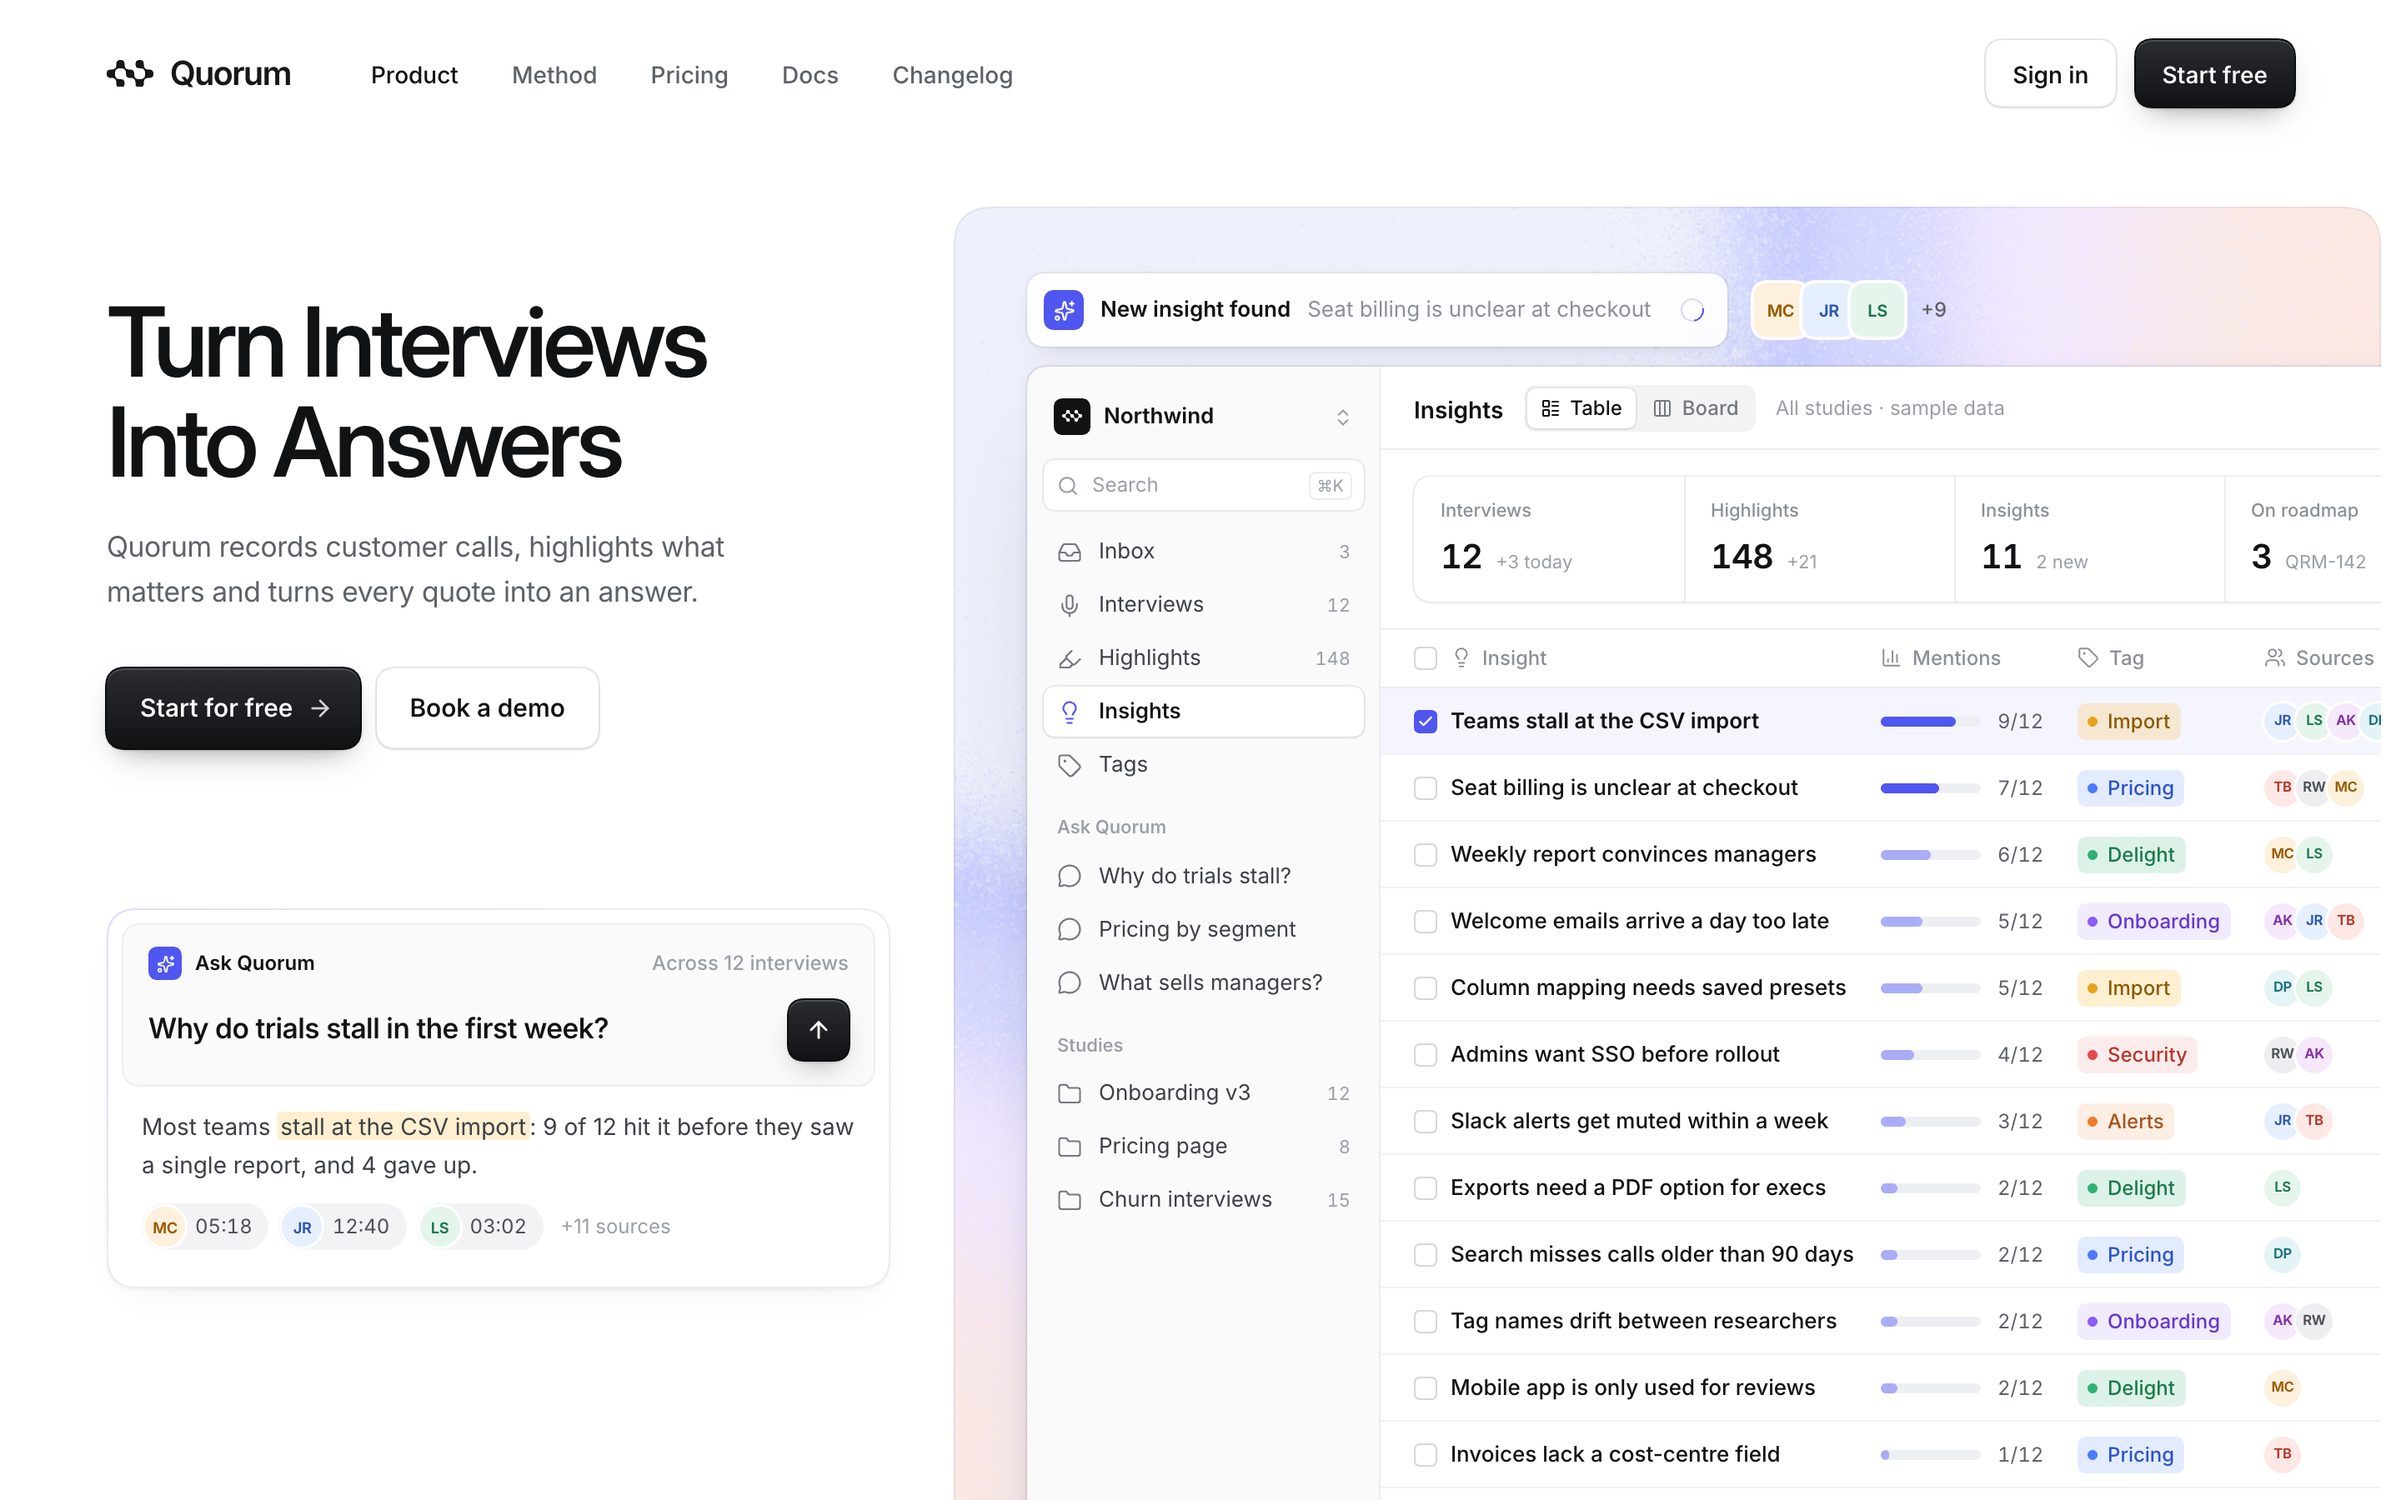
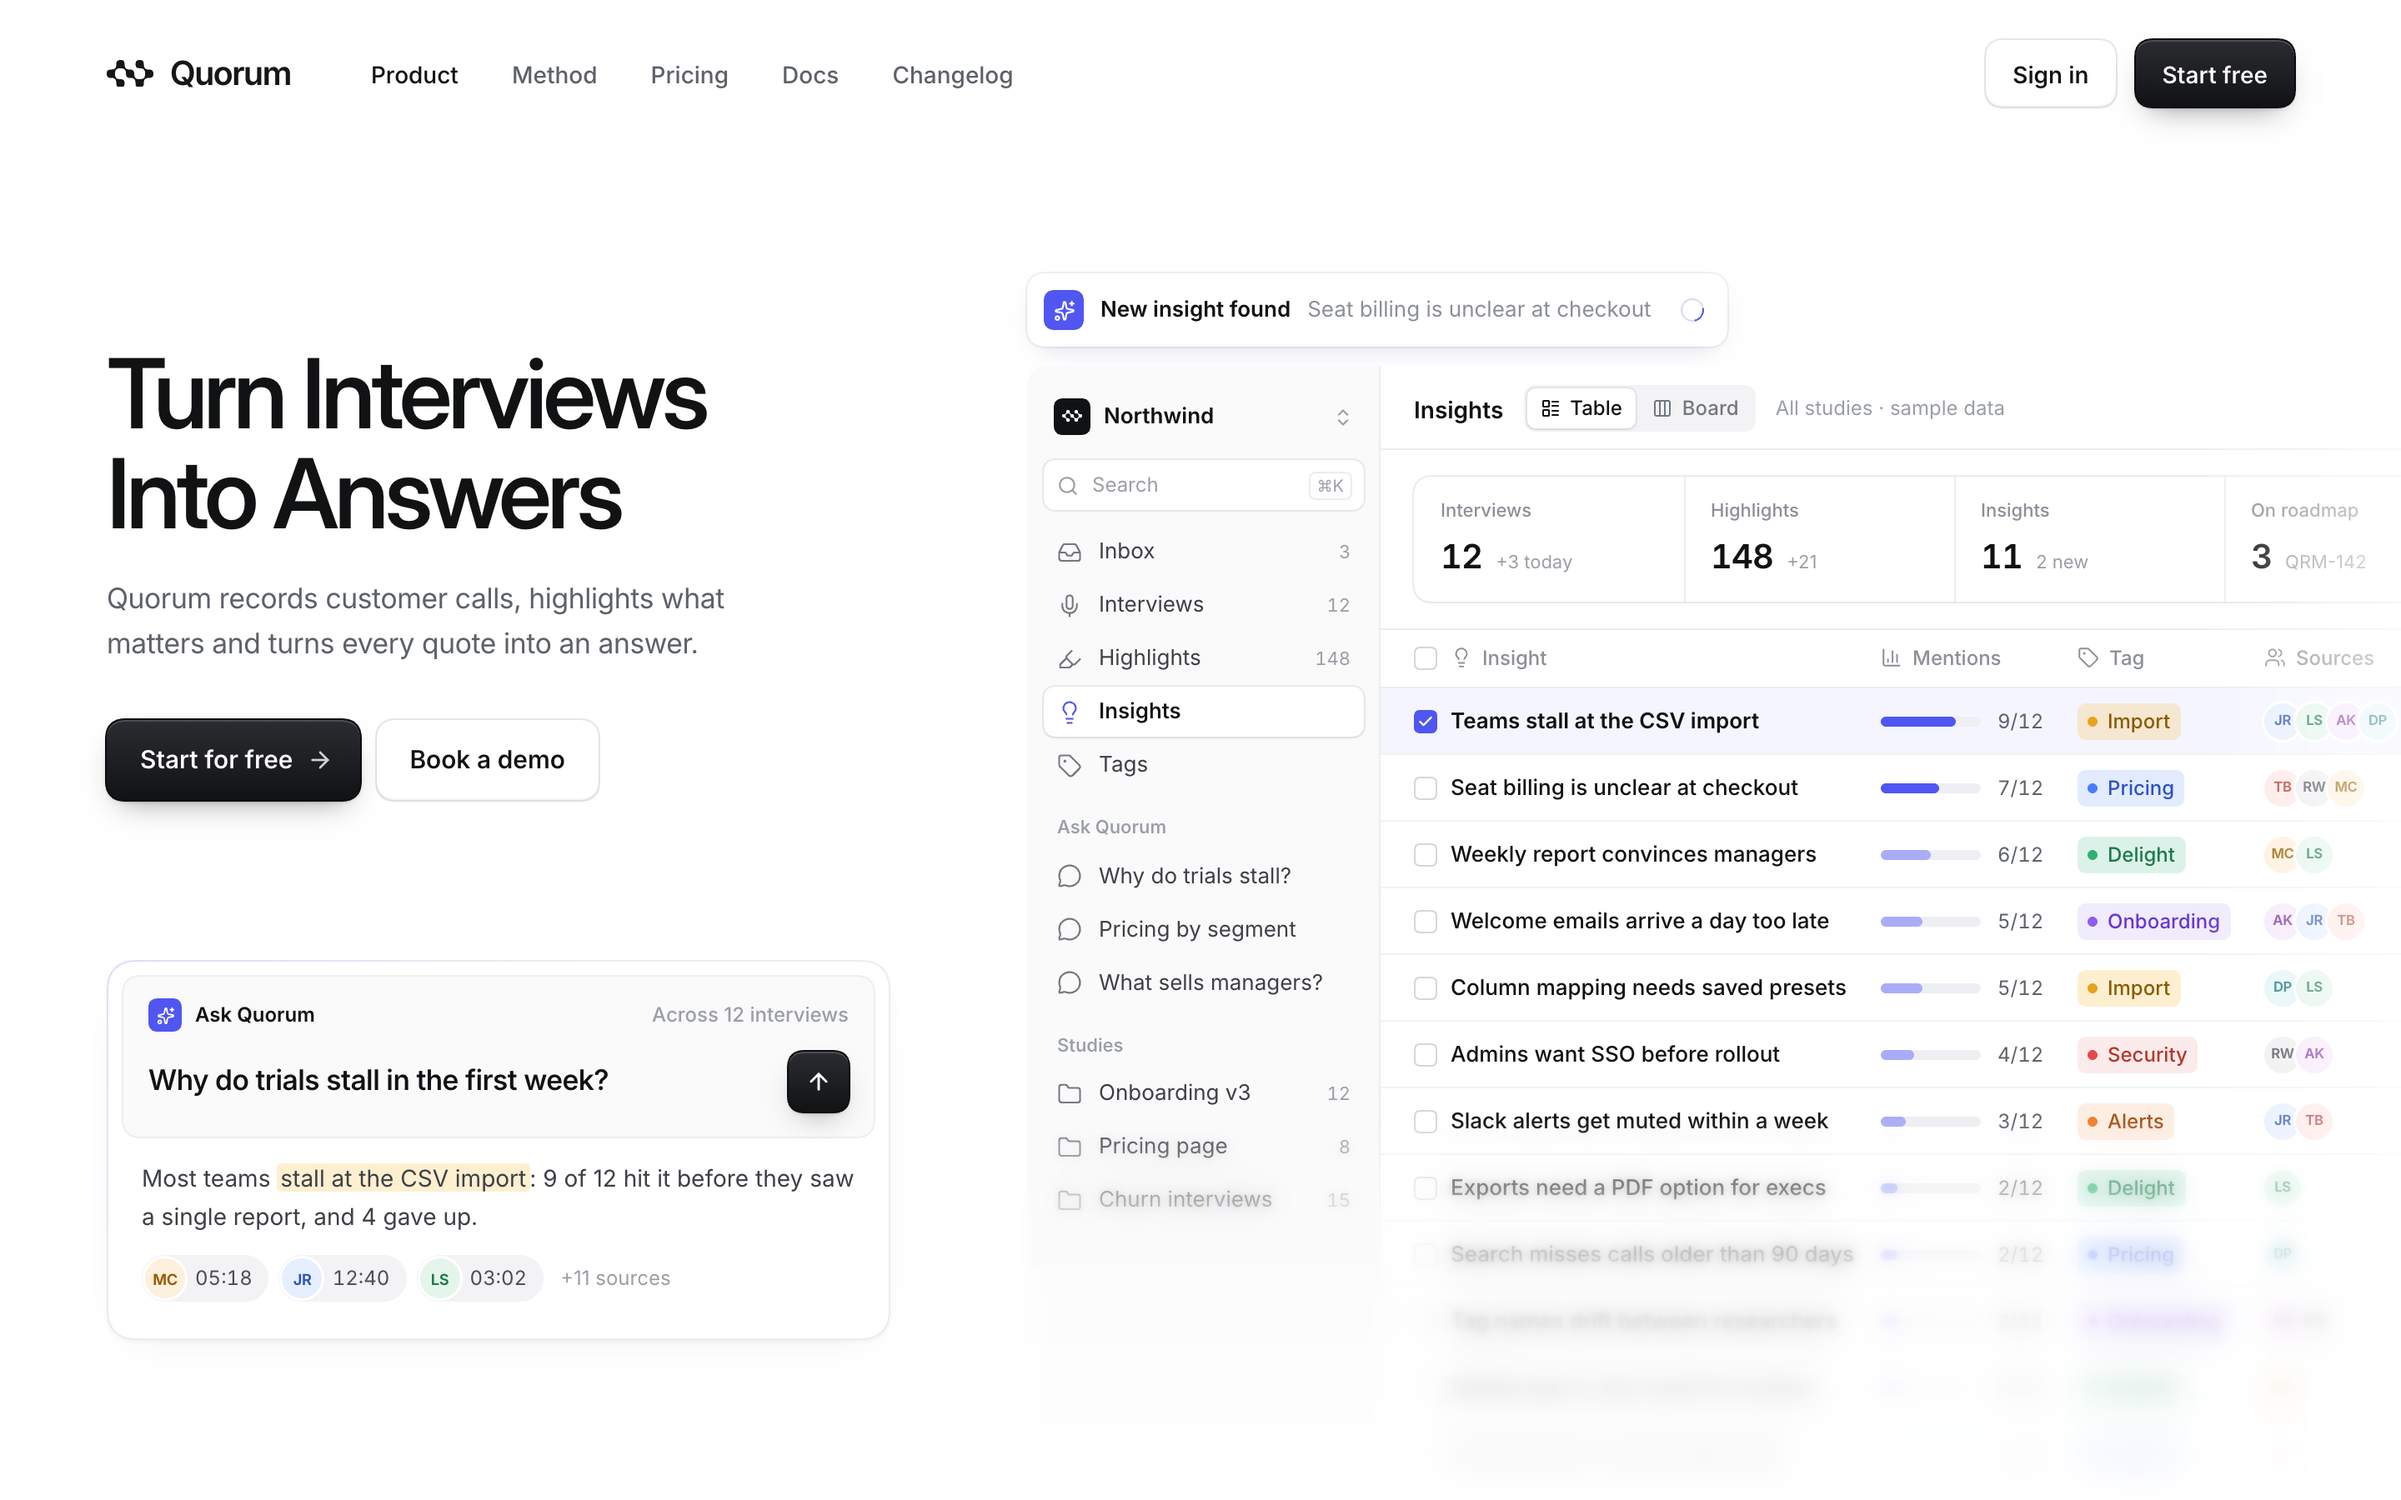
Quorum v6.5: equal copy-side gaps, single agent bar, grain removed, product dissolves into the page with a progressive blur

diff --git a/work/quorum/app/src/HeroV6.tsx b/work/quorum/app/src/HeroV6.tsx
@@ -4,7 +4,6 @@
 // a peek card with the source quote and clip straddling the stage edge, quiet substance under the CTAs, tactile buttons.
 import { type ReactNode, useEffect, useState } from 'react'
 import { AnimatePresence, motion, MotionConfig } from 'motion/react'
-import { GrainGradient } from '@paper-design/shaders-react'
 import { ArrowRight, ArrowUp, BarChart3, Check, ChevronsUpDown, Highlighter, Inbox, Lightbulb, Mic, MessageCircle, Search, Sparkles, Tag, Users, Folder, LayoutList, Columns3 } from 'lucide-react'
 import { ease } from './motion'
 import { TAG, type TagKey } from './Product'
@@ -13,6 +12,8 @@ import QuorumLogo, { QuorumMark } from './QuorumLogo'
 const T = { nav: 0.1, h1: 0.25, sub: 0.55, cta: 0.66, feats: 0.8, stage: 0.2, app: 0.55, rows: 0.95, bar: 1.4, peek: 1.7 }
 const INK = '#111214', SUB = '#5d6168', IND = '#5056f0'
 const STAGE = { x: 572, y: 124, w: 856, h: 820 }
+// the product dissolves into the page: fades over its last ~200px at the bottom and ~140px at the right
+const FADE = 'linear-gradient(180deg, #000 62%, transparent 92%), linear-gradient(90deg, #000 78%, transparent 99%)'
 
 const Up = ({ at, y = 14, className = '', children }: { at: number; y?: number; className?: string; children: ReactNode }) => (
   <motion.div className={className} initial={{ opacity: 0.01, y, filter: 'blur(6px)' }} animate={{ opacity: 1, y: 0, filter: 'blur(0px)' }}
@@ -132,13 +133,6 @@ function AgentStack() {
           </motion.div>
         </AnimatePresence>
       </div>
-      {/* who is feeding this study: rounded-square profile pictures, quiet */}
-      <motion.div className="absolute left-[436px] top-0 flex h-11 items-center gap-2.5" initial={{ opacity: 0, x: -6 }} animate={{ opacity: 1, x: 0 }} transition={{ delay: T.bar + 0.2, duration: 0.6, ease: ease.outQuint }}>
-        <span className="flex -space-x-[3px]">
-          {['MC', 'JR', 'LS'].map((a) => <span key={a} className="grid size-8 place-items-center rounded-[9px] text-[10px] font-[650] tracking-[-0.02em] shadow-[0_0_0_2px_rgba(255,255,255,0.9)]" style={{ background: HUES[a][0], color: HUES[a][1] }}>{a}</span>)}
-        </span>
-        <span className="text-[12px] font-[500] text-[#5d6168]">+9</span>
-      </motion.div>
     </motion.div>
   )
 }
@@ -217,7 +211,7 @@ export default function HeroV6() {
     <MotionConfig reducedMotion="user">
       <div className="relative mx-auto h-[900px] w-[1440px] overflow-hidden bg-white" style={{ color: INK, fontFamily: '"Inter Variable", system-ui, sans-serif', fontOpticalSizing: 'auto', fontFeatureSettings: '"cv11", "ss01"' }}>
         <Nav />
-        <section className="absolute left-[64px] top-[176px] z-20 w-[470px]">
+        <section className="absolute left-[64px] top-[207px] z-20 w-[470px]">
           <h1 className="text-[58px] font-[550] leading-[1.03] tracking-[-0.045em]">
             {['Turn Interviews', 'Into Answers'].map((l, i) => (
               <motion.span key={l} className="block" initial={{ opacity: 0.01, y: 30, filter: 'blur(6px)' }} animate={{ opacity: 1, y: 0, filter: 'blur(0px)' }}
@@ -232,16 +226,18 @@ export default function HeroV6() {
           <Up at={T.feats} className="mt-24"><AskBox /></Up>
         </section>
 
-        <motion.div className="absolute z-10 overflow-hidden rounded-[24px]" style={{ left: STAGE.x, top: STAGE.y, width: STAGE.w, height: STAGE.h }}
+        <motion.div className="absolute z-10" style={{ left: STAGE.x, top: STAGE.y, width: STAGE.w + 12, height: STAGE.h }}
           initial={{ opacity: 0 }} animate={{ opacity: 1 }} transition={{ delay: T.stage, duration: 1.0 }}>
-          <GrainGradient style={{ position: 'absolute', inset: 0, width: STAGE.w, height: STAGE.h }} colorBack="#eef0fb" colors={['#aeb4ff', '#d4d7ff', '#f3e9ff', '#ffe9dc']} shape="corners" softness={0.85} intensity={0.22} noise={0.28} speed={0.25} />
-          <div aria-hidden className="absolute inset-0 rounded-[24px] shadow-[inset_0_0_0_1px_rgba(17,18,20,0.06)]" />
           <AgentStack />
-          <motion.div className="absolute left-[44px] top-[96px] h-[760px] w-[900px] overflow-hidden rounded-[14px] bg-white" style={{ boxShadow: '0 0 0 1px rgba(17,18,20,0.08), 0 2px 6px rgba(30,34,90,0.06), 0 30px 60px -24px rgba(30,34,90,0.28)' }}
+          <motion.div className="absolute left-[44px] top-[96px] h-[760px] w-[900px] overflow-hidden rounded-[14px] bg-white" style={{ boxShadow: '0 0 0 1px rgba(17,18,20,0.08), 0 2px 6px rgba(17,18,20,0.04), 0 30px 60px -24px rgba(17,18,20,0.18)', WebkitMaskImage: FADE, maskImage: FADE, WebkitMaskComposite: 'source-in', maskComposite: 'intersect' }}
             initial={{ opacity: 0, y: 40 }} animate={{ opacity: 1, y: 0 }} transition={{ delay: T.app, duration: 1.3, ease: ease.reveal, opacity: { delay: T.app, duration: 0.6 } }}>
             <App />
           </motion.div>
         </motion.div>
+        {/* progressive blur over the dissolving bottom of the product only (three stacked backdrop blurs, deeper bands blur more) */}
+        {([[2, '60%'], [5, '78%'], [10, '95%']] as const).map(([b, to]) => (
+          <div key={b} aria-hidden className="pointer-events-none absolute bottom-0 right-0 z-20 h-[230px]" style={{ left: STAGE.x, backdropFilter: `blur(${b}px)`, WebkitBackdropFilter: `blur(${b}px)`, WebkitMaskImage: `linear-gradient(180deg, transparent, #000 ${to})`, maskImage: `linear-gradient(180deg, transparent, #000 ${to})` }} />
+        ))}
       </div>
     </MotionConfig>
   )

diff --git a/knowledge/founder/founder-taste.md b/knowledge/founder/founder-taste.md
@@ -294,6 +294,9 @@ Every rule here is a direct founder verdict on real output. It outranks books, w
 - **RULE** [founder] A minimal live element above a product beats a stack. Use one status bar, plus a row of 44px square tiles to its right: the inputs feeding it, such as tinted-initial participant tiles, one with a green live dot, and a +N tile. Never ghost cards stacked behind. The composer under the hero CTAs should be big enough to carry a moment: about 64px below the CTAs and 470px wide, with a 17/550 question, and once typed it streams a one-sentence answer with the key finding highlighted in its tag colour and three citation chips (avatar plus timestamp). The founder loved the grain stage (Paper GrainGradient, corners shape, indigo/lavender/peach).
   **Why** Founder on Quorum v6.2: "love the grain thingy... the thing above, I meant add maybe squares to the right or something minimal, not stack up... the below left side visual to be higher and have a bigger gap... better styled or a bit bigger... something cooler".
   **Applies to** split product heroes. **Check** no stacked ghost cards; the composer shows a real answer with sources in the final frame. **Source** founder, Quorum v6.2, 2026-10-15
+- **RULE** [founder] Vertical rhythm on the copy side: the gap from the CTAs to the element below them equals the gap from that element to the fold (Quorum v6.5: 96 / 97px). Above the product, keep only the single status bar (no avatar rows, no stacks). After living with the grain stage, the founder preferred the product on the plain page, dissolving into it: mask the window bottom (#000 62% to transparent 92%) and right (78% to 99%), with a progressive blur over the dissolving band (three stacked backdrop blurs of 2/5/10px, each masked deeper).
+  **Why** Founder on Quorum v6.4: "move entire left side a tiny bit down so the gap for the visual and buttons is the same to the visual's bottom... remove the pfps, keep the initial version of the dashboard top... remove the grain bg and a slight blur out of the bottom of the dashboard or sides".
+  **Applies to** split product heroes. **Check** measure both gaps (within 4px); the product has no hard bottom edge inside the fold. **Source** founder, Quorum v6.4, 2026-10-15
 ## 5. Exceptions & judgement calls
 
 - The split layout (copy left, visual right) was rejected by Larpo when the right side was a decorative dashboard. With a real product world on the right (the payout globe) the founder accepted it.
